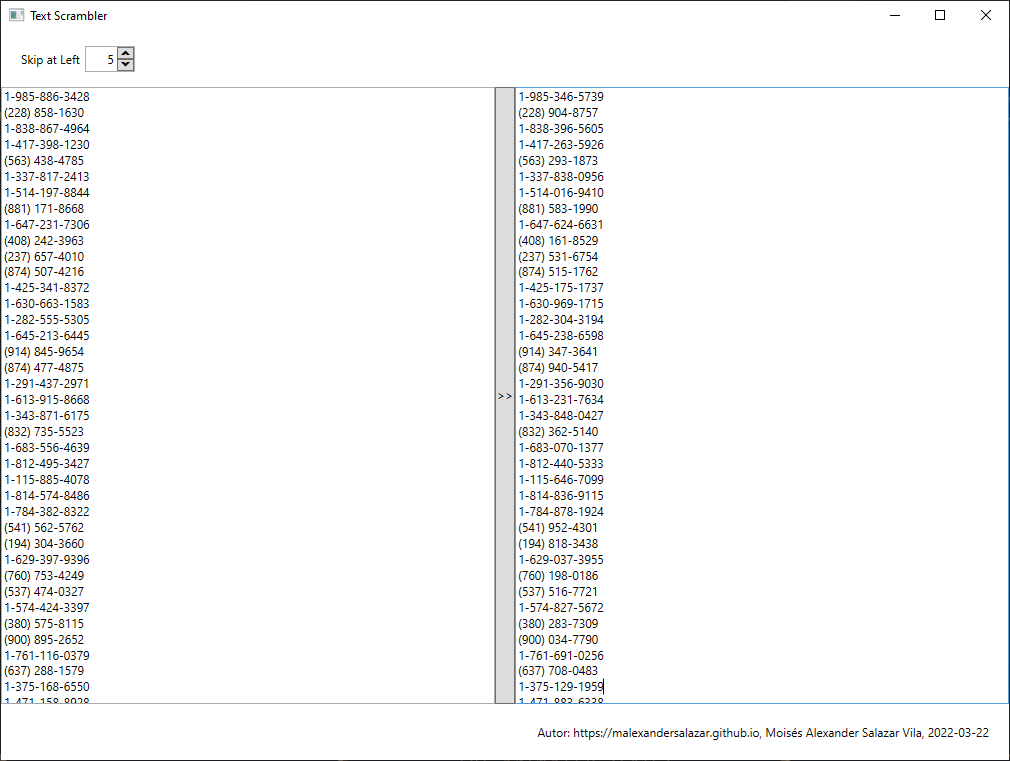
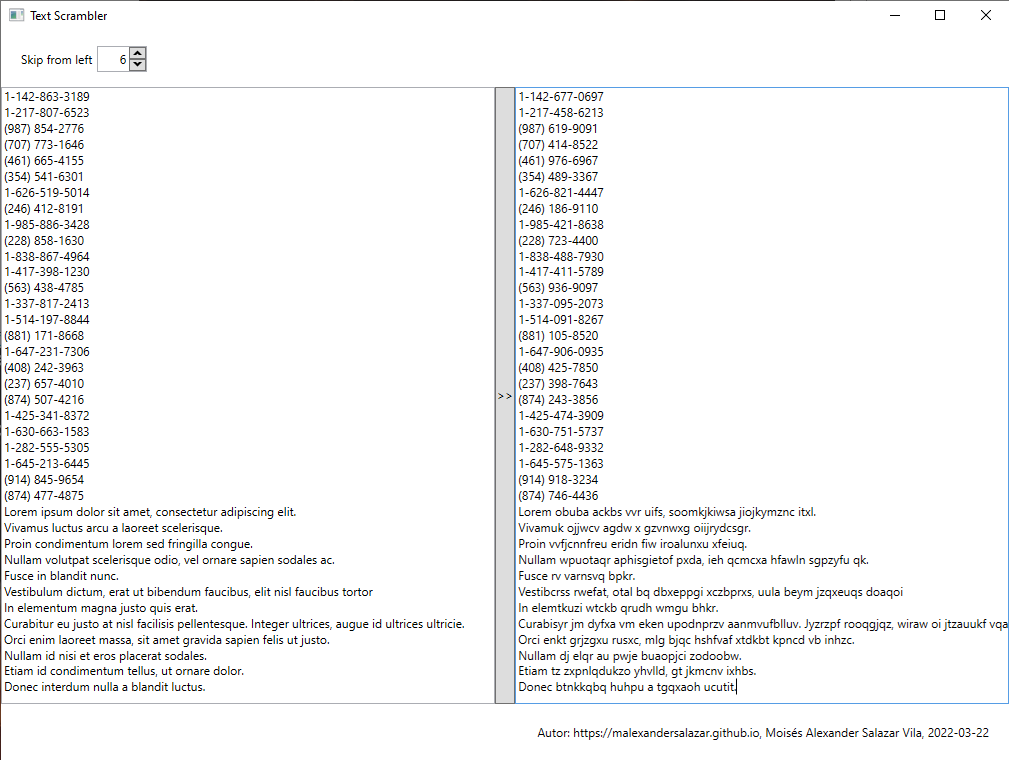
UpdateREADME

diff --git a/src/TextScrambler/MainWindow.xaml b/src/TextScrambler/MainWindow.xaml
@@ -14,7 +14,7 @@
             <RowDefinition Height="Auto" />
         </Grid.RowDefinitions>
         <StackPanel Grid.Row="0" Orientation="Horizontal" Margin="15">
-            <Label>Skip at Left</Label>
+            <Label>Skip from left</Label>
             <xctk:UShortUpDown x:Name="SkipLeftUpDown" Width="50" Value="0" />
         </StackPanel>
         <Grid Grid.Row="1">
@@ -25,7 +25,7 @@
             </Grid.ColumnDefinitions>
             <TextBox x:Name="SourceTextBox" Grid.Column="0" AcceptsReturn="True"></TextBox>
             <Button Grid.Column="1" Click="ScramblerButton_Click">&gt;&gt;</Button>
-            <TextBox x:Name="TargetTextBox" Grid.Column="2" AcceptsReturn="True"></TextBox>
+            <TextBox x:Name="TargetTextBox" Grid.Column="2" IsReadOnly="True" IsReadOnlyCaretVisible="True"></TextBox>
         </Grid>
         <Grid Grid.Row="2" HorizontalAlignment="Right">
             <Label Margin="15">Autor: https://malexandersalazar.github.io, Moisés Alexander Salazar Vila, 2022-03-22</Label>

diff --git a/README.md b/README.md
@@ -1,2 +1,35 @@
-# tools-desktop-text-scrambler
- A simple tool to scramble text in the right way
+# Text Scrambler
+
+![alt text](/images/cover.png "Text Scrambler")
+
+A simple tool to scramble text in the right way. Source files are in the `src` folder.
+
+## Installation
+
+Just copy the `dist` folder content. Text Scrambler can be executed through `TextScrambler.exe`.
+
+## Usage
+
+You just have to write numbers or letters in the text box on the left. The application will take care of replacing the letters with other random letters in uppercase or lowercase as appropriate, as well as the numbers with other random ones.
+
+The **Skip from left** option allows you to ignore a certain number of columns of characters in each line of text so that they are not transformed.
+
+The following are examples with **Skip from left** set to 6.
+
+| Input Text Line        | Output Text Line   |
+|:-----------------|:-------------------|
+| arrow-90deg-down | arrow-06fbu-mjmo         |
+| grid-1x2-fill | grid-1n4-eeys         |
+| telephone-inbound | telephvox-fmzplnt        |
+| umbrella | umbrelju        |
+
+## Prerequisites
+
+* .NET (>= 5.0)
+* Extended.Wpf.Toolkit (>= 4.2.0)
+
+## License
+
+This project is licenced under the [MIT License][1].
+
+[1]: https://opensource.org/licenses/mit-license.html "The MIT License | Open Source Initiative"
